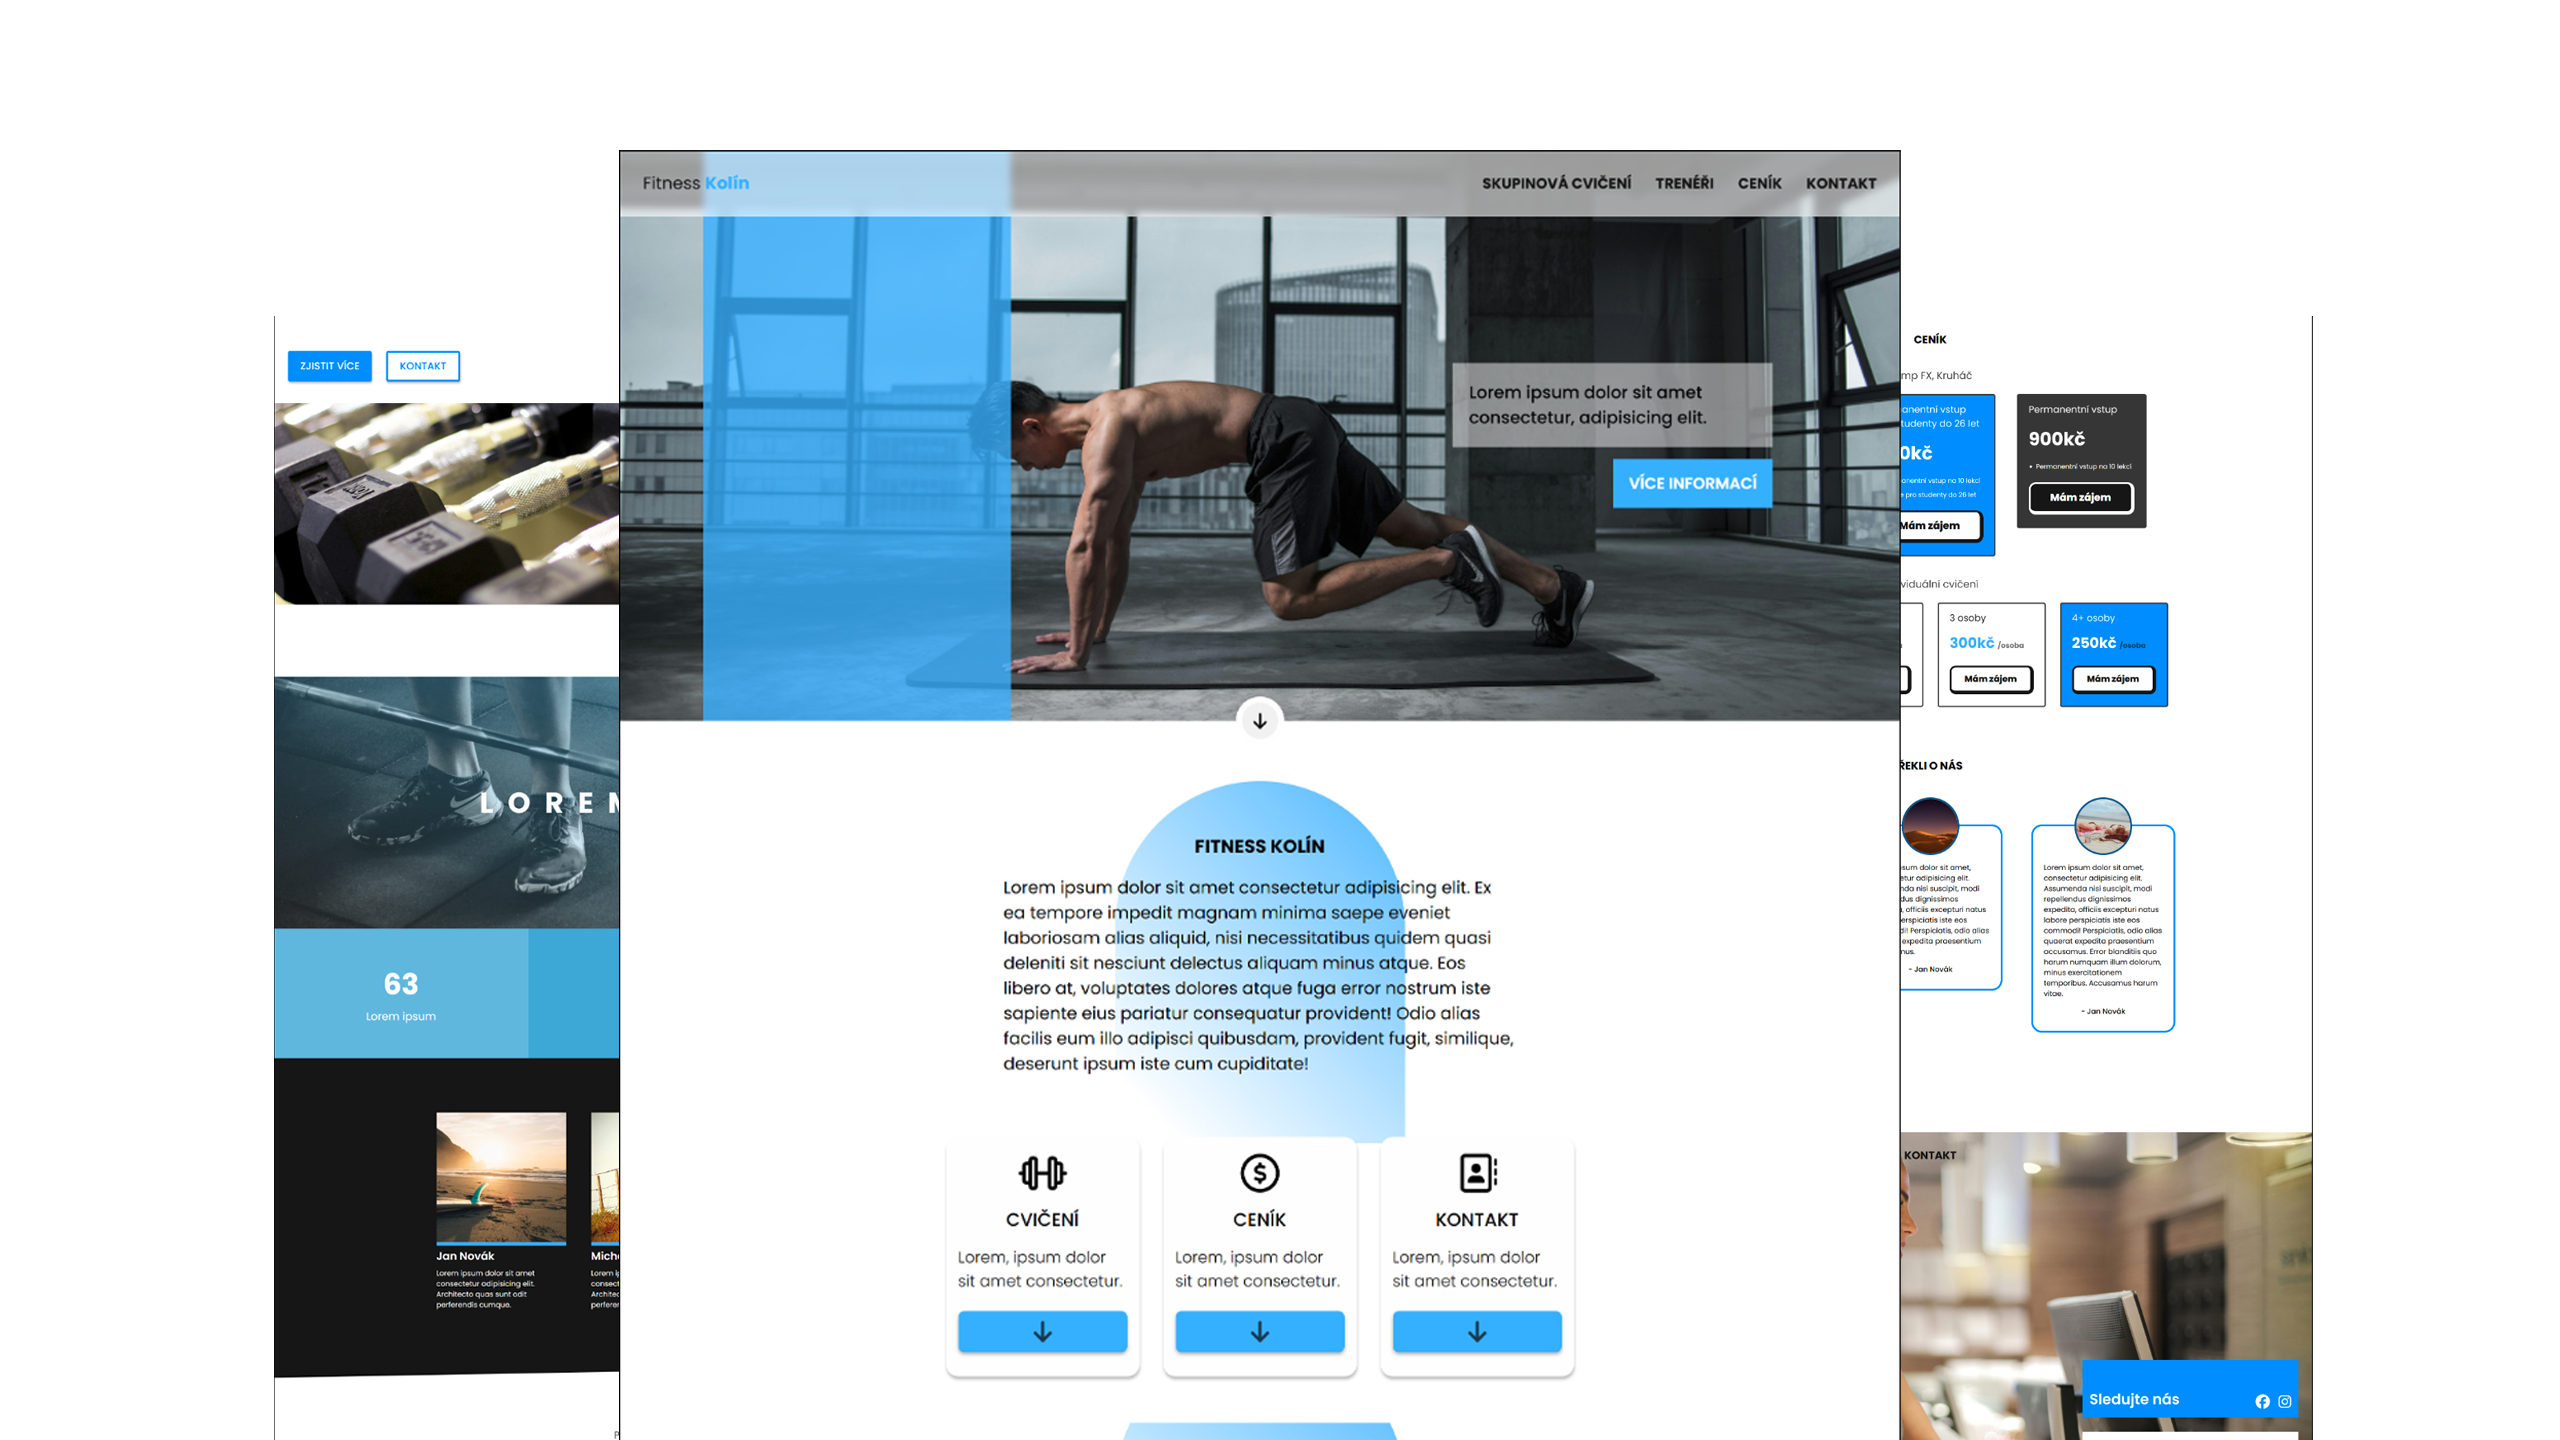
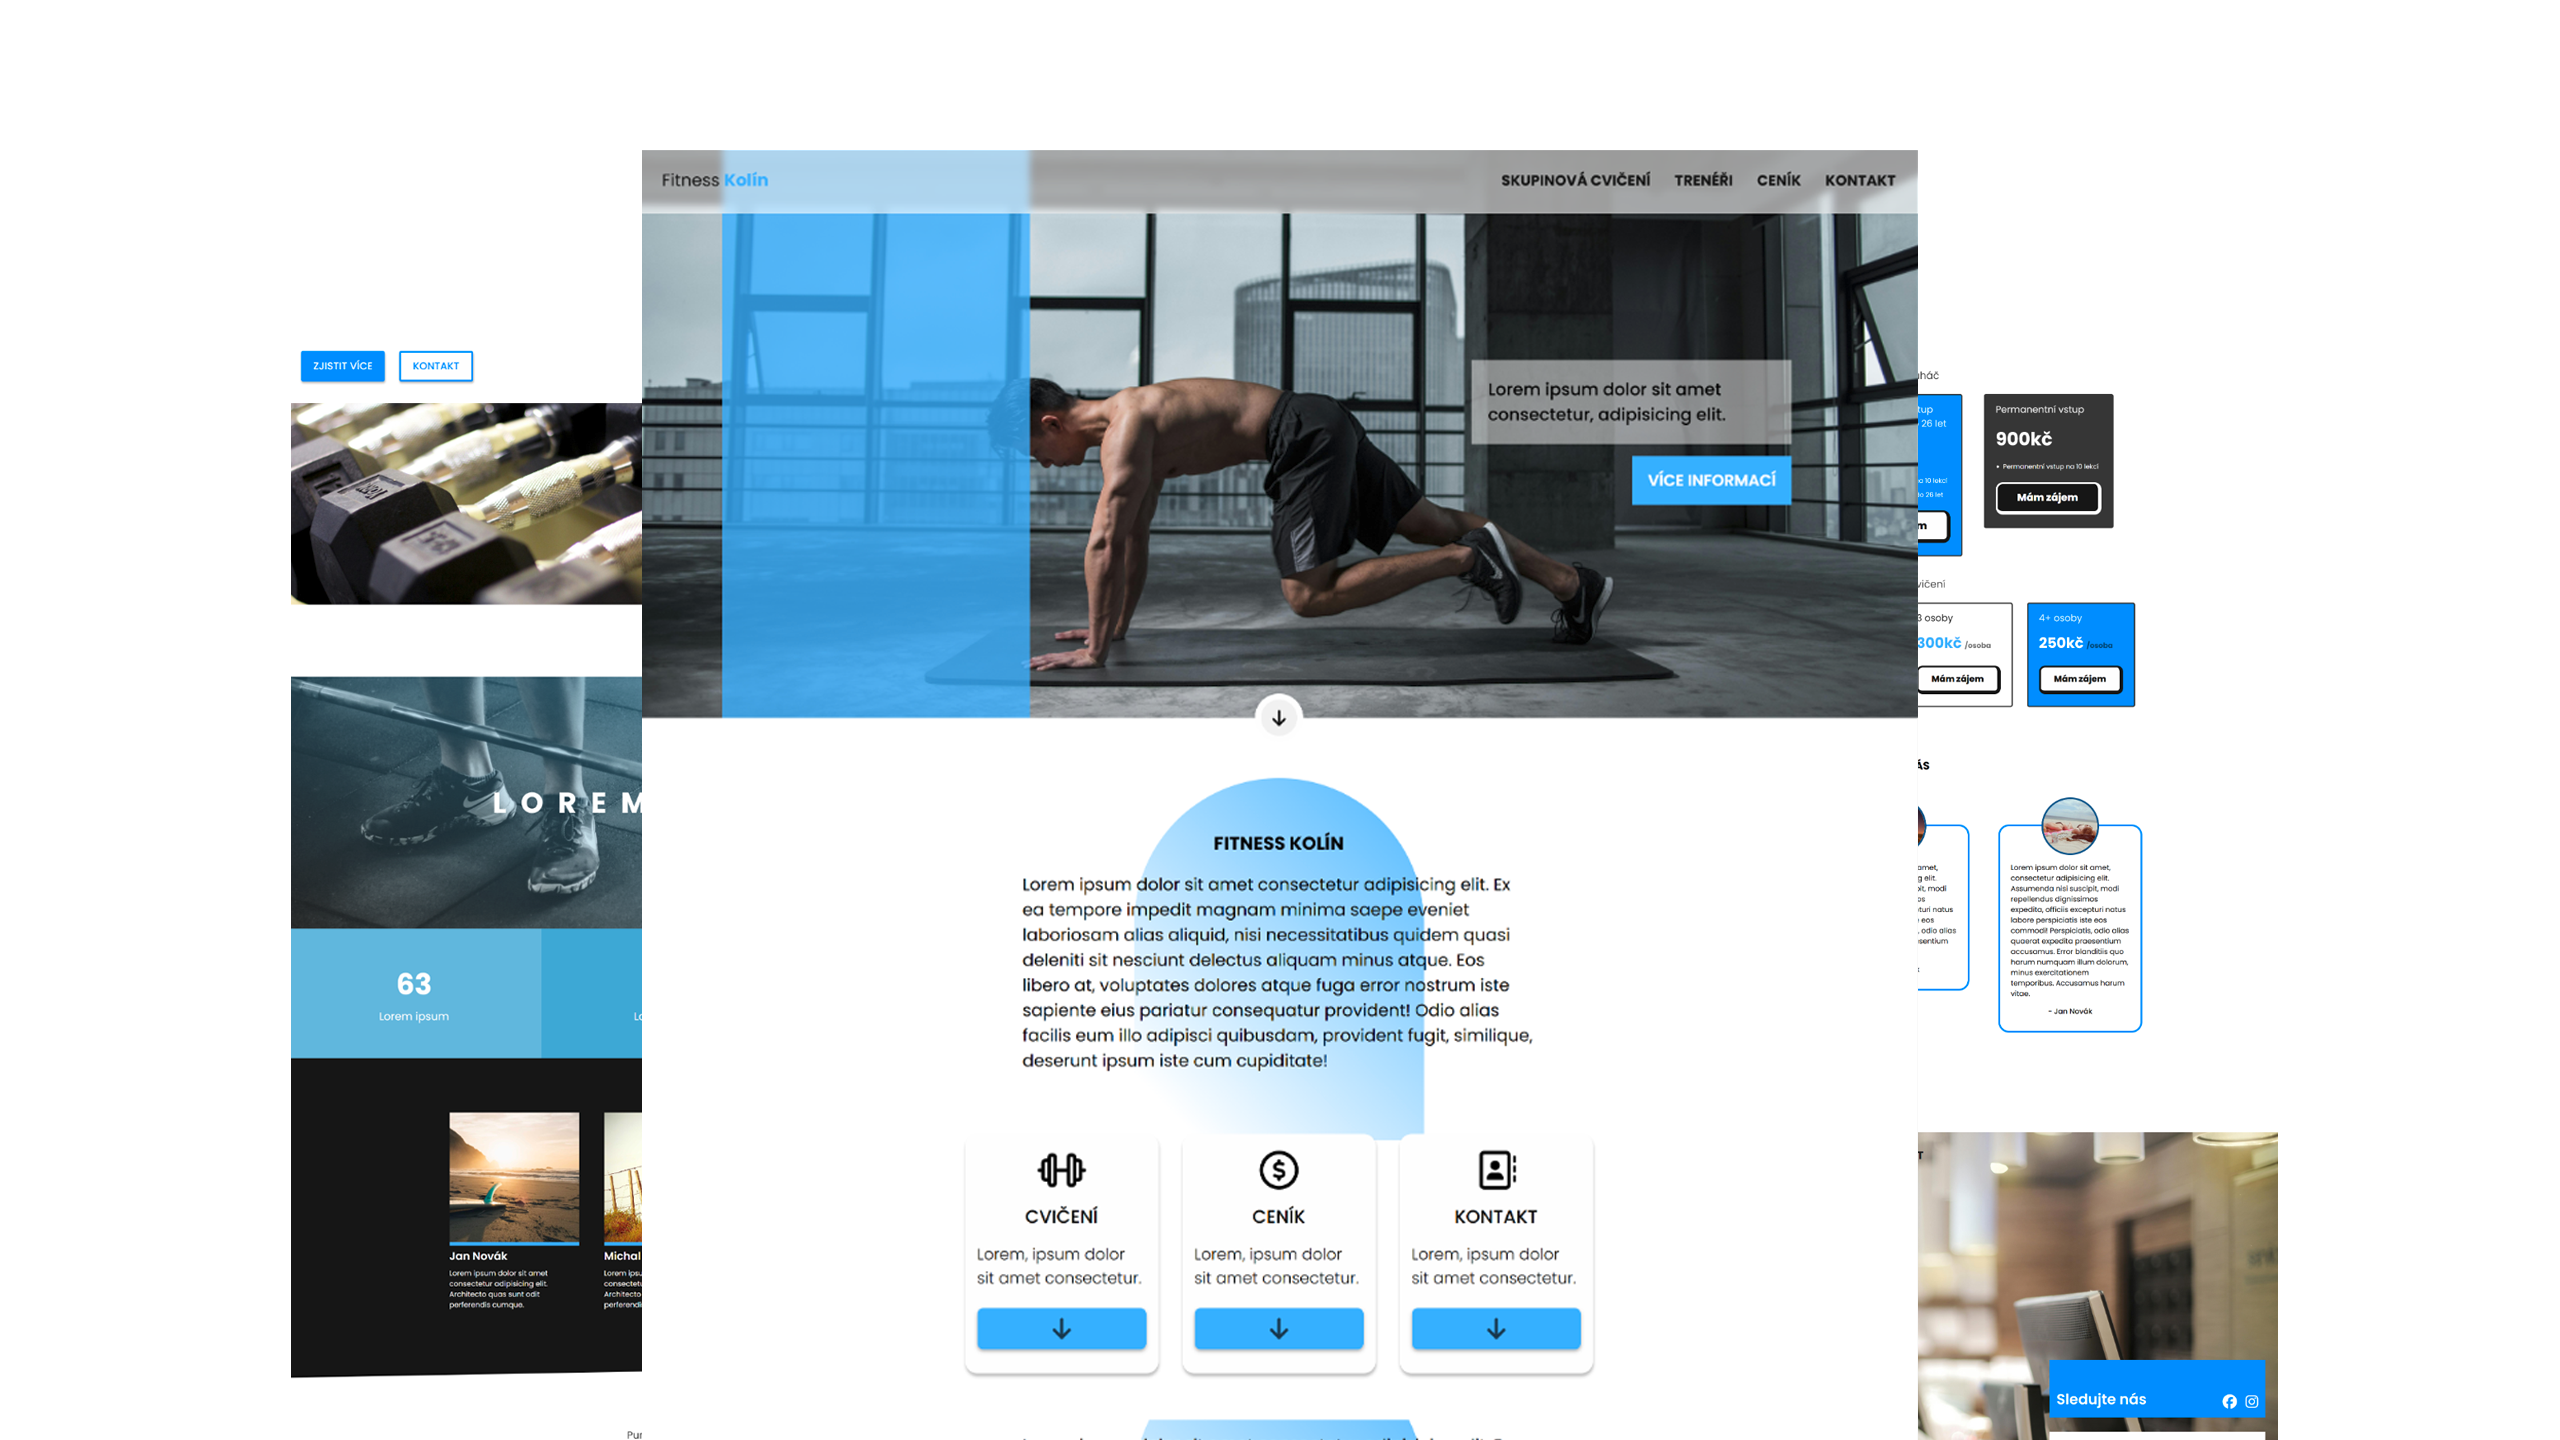
push

diff --git a/scripts/weby.js b/scripts/weby.js
@@ -5,15 +5,15 @@ const webs = [
   "images/anglictina.png",
   "images/fitnes.png",
   "images/melisa.png",
-  "https://unsplash.it/2563/1443",
-  "https://unsplash.it/2564/1444"
+  "images/krystof.png",
+  "images/piana.png"
 ];
 const webColors = [
   "images/anglictina_pozadi.png",
   "images/fitnes_pozadi.png",
   "images/melisa_pozadi.png",
-  "var(--c6)",
-  "var(--c6)",
+  "images/krystof_pozadi.png",
+  "images/piana_pozadi.png",
 ]
 ///
 
@@ -24,21 +24,21 @@ function renderWebs() {
   //web na začátek
   const nWebStart = slides.querySelector('.webDef').cloneNode(true);
   nWebStart.classList = "web edgeWeb";
-  nWebStart.querySelector(".img-back").style = "background: url("+webColors[webs.length-1]+");";//webs[webs.length-1];
+  nWebStart.querySelector(".img-back").style = "background-image: url("+webColors[webs.length-1]+");";//webs[webs.length-1];
   nWebStart.querySelector(".img-front").src = webs[webs.length-1];
   slides.appendChild(nWebStart, slides.children[1]);
   ///
   for(let i = 0; i < webs.length; i++) {
     const nWeb = slides.querySelector('.webDef').cloneNode(true);
     nWeb.classList = "web";
-    nWeb.querySelector(".img-back").style = "background: url("+webColors[i]+");";//webs[i];
+    nWeb.querySelector(".img-back").style = "background-image: url("+webColors[i]+");";//webs[i];
     nWeb.querySelector(".img-front").src = webs[i];
     slides.appendChild(nWeb, slides.children[slides.children.length]);
   }
   ///web na konec
   const nWebEnd = slides.querySelector('.webDef').cloneNode(true);
   nWebEnd.classList = "web edgeWeb";
-  nWebEnd.querySelector(".img-back").style = "background: url("+webColors[0]+");";//webs[0];
+  nWebEnd.querySelector(".img-back").style = "background-image: url("+webColors[0]+");";//webs[0];
   nWebEnd.querySelector(".img-front").src = webs[0];
   nWebEnd.querySelector("img").src = webs[0];
   slides.appendChild(nWebEnd, slides.children[slides.children.length]);

diff --git a/styles/main.scss b/styles/main.scss
@@ -106,7 +106,7 @@ header
 {
   color: white;
   background-color: rgba(255, 255, 255, 0.05);
-  mix-blend-mode: difference;
+  //mix-blend-mode: difference;
   width: 100%;
   height: var(--hh);
   border-bottom: 1px solid rgba(122, 122, 122, 0.5);
@@ -123,6 +123,7 @@ header
   .name
   {
     color: inherit;
+    //mix-blend-mode: difference;
     font: 600 1.6em var(--f1);
     letter-spacing: 0.2em;
     text-decoration: none;
@@ -136,6 +137,7 @@ header
     a
     {
       color: inherit;
+      //mix-blend-mode: difference;
       border-radius: 0.25em;
       padding: 0.7em 1.0em;
       transition: all .12s;
@@ -156,6 +158,7 @@ header
     {
       color: var(--c1);
       background-color: var(--c4);
+      //mix-blend-mode: normal;
       border: 2px solid transparent;
       //padding: 1.3em 1.8em;
       box-shadow: 0px 0px 30px 0px rgba(63, 131, 209, 0.8);
@@ -379,6 +382,7 @@ main
       
       .img-back
       {
+        background-size: 100% 100%;
         width: 100%;
         min-height: 100%;
         max-height: 100%;
@@ -695,6 +699,12 @@ main
         //white-space: nowrap;
         text-align: center;
 
+        .light
+        {
+          font-size: 0.7em;
+          font-weight: 400;
+          margin-right: 0.2em;
+        }
         .lineCont
         {
           width: 100%;
@@ -934,6 +944,7 @@ footer
 {
   :root
   {
+    --fh: 8em;
     --particles-js-bg-height: 650vh;
   }
   header
@@ -1032,7 +1043,6 @@ footer
   }
   footer
   {
-    height: 8em;
     flex-direction: column;
     align-items: start;
     justify-content: center;

diff --git a/index.html b/index.html
@@ -20,7 +20,7 @@
   
   <link rel="stylesheet" href="styles/main.css">
 
-  <!-- <script src="scripts/header.js" defer></script> -->
+  <script src="scripts/header.js" defer></script>
   <script src="scripts/weby.js" defer></script>
   <script src="scripts/gallery.js" defer></script>
   <script src="scripts/jakToFunguje.js" defer></script>
@@ -141,7 +141,7 @@
     <div class="cont">
       <div class="cena">
         <h2>Standard</h2>
-        <h3>8 990,-<div class="lineCont"><div class="line"></div></div></h3>
+        <h3><span class="light">od</span> 8 990,-<div class="lineCont"><div class="line"></div></div></h3>
         <div class="line"></div>
         <ul>
           <li>nějakej bod</li>
@@ -154,7 +154,7 @@
       </div>
       <div class="cena cena-pick">
         <h2>Profesional</h2>
-        <h3>11 990,-<div class="lineCont"><div class="line"></div></div></h3>
+        <h3><span class="light">od</span> 11 990,-<div class="lineCont"><div class="line"></div></div></h3>
         <ul>
           <li>nějakej bod</li>
           <li>nějakej bod</li>
@@ -167,7 +167,7 @@
       </div>
       <div class="cena">
         <h2>Custom</h2>
-        <h3>14 990,-<div class="lineCont"><div class="line"></div></div></h3>
+        <h3><span class="light">od</span> 14 990,-<div class="lineCont"><div class="line"></div></div></h3>
         <ul>
           <li>nějakej bod</li>
           <li>nějakej bod</li>

diff --git a/styles/main.css b/styles/main.css
@@ -96,7 +96,6 @@ body * {
 header {
   color: white;
   background-color: rgba(255, 255, 255, 0.05);
-  mix-blend-mode: difference;
   width: 100%;
   height: var(--hh);
   border-bottom: 1px solid rgba(122, 122, 122, 0.5);
@@ -319,6 +318,7 @@ main .aCont a:hover {
 }
 .weby .slides .web .img-back,
 .weby .slides .edgeWeb .img-back {
+  background-size: 100% 100%;
   width: 100%;
   min-height: 100%;
   max-height: 100%;
@@ -569,6 +569,11 @@ main .aCont a:hover {
   position: relative;
   text-align: center;
 }
+.cenik .cont .cena h3 .light {
+  font-size: 0.7em;
+  font-weight: 400;
+  margin-right: 0.2em;
+}
 .cenik .cont .cena h3 .lineCont {
   width: 100%;
   height: 2px;
@@ -749,6 +754,7 @@ footer .links a:hover {
 }
 @media screen and (max-width: 1100px) {
   :root {
+    --fh: 8em;
     --particles-js-bg-height: 650vh;
   }
   header {
@@ -813,7 +819,6 @@ footer .links a:hover {
     max-width: 85vw !important;
   }
   footer {
-    height: 8em;
     flex-direction: column;
     align-items: start;
     justify-content: center;

diff --git a/scripts/scrollEffect.js b/scripts/scrollEffect.js
@@ -14,8 +14,8 @@ function updateScrollEffect() {
   else {
     //kompl
     const scrollValue = window.scrollY;
-    pjsbg[0].style = "top: "+(scrollValue * 0.4)+"px;";
-    pjsbg[1].style = "top: "+(scrollValue * 0.4)+"px;";
+    pjsbg[0].style = "top: "+(scrollValue * 0.3)+"px;";
+    pjsbg[1].style = "top: "+(scrollValue * 0.3)+"px;";
   }
 }
 window.addEventListener('scroll', updateScrollEffect);
